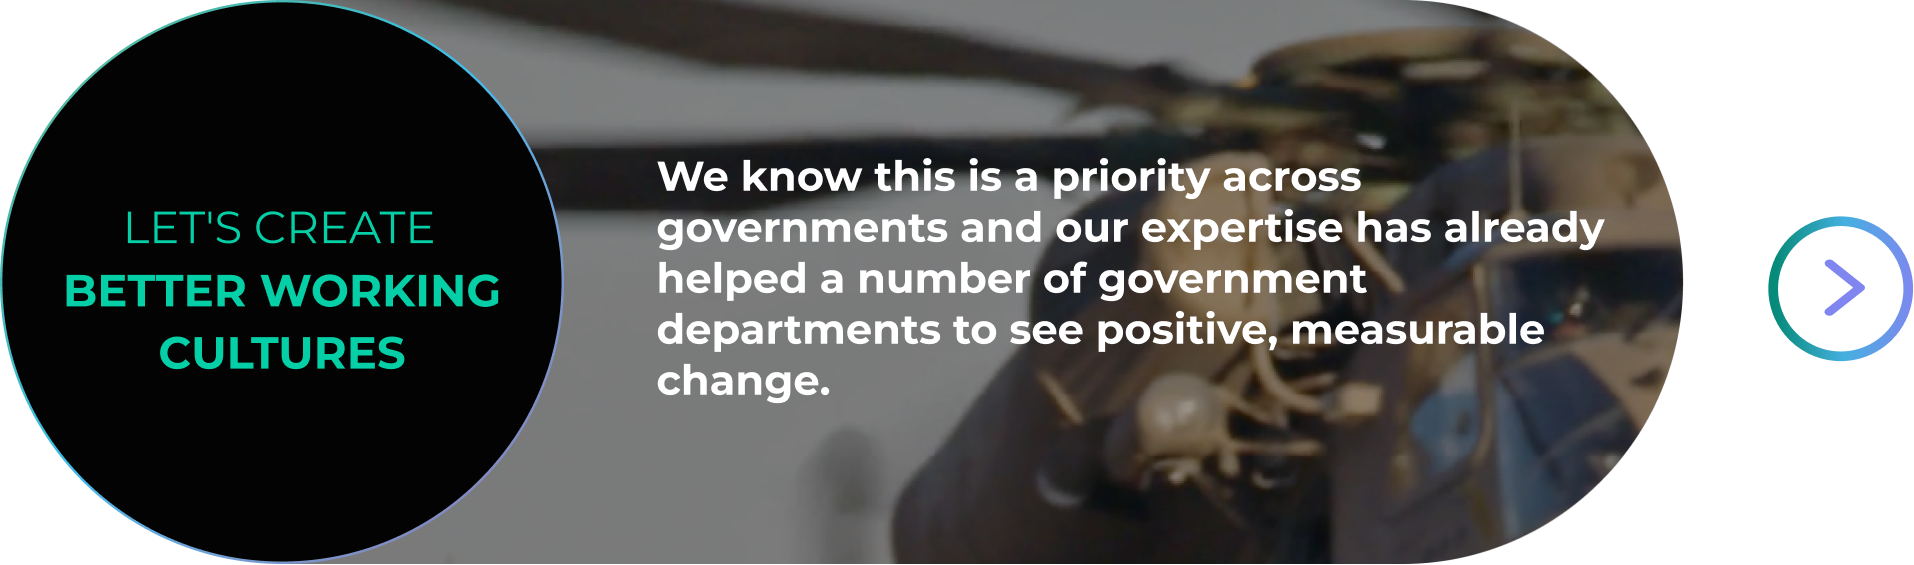
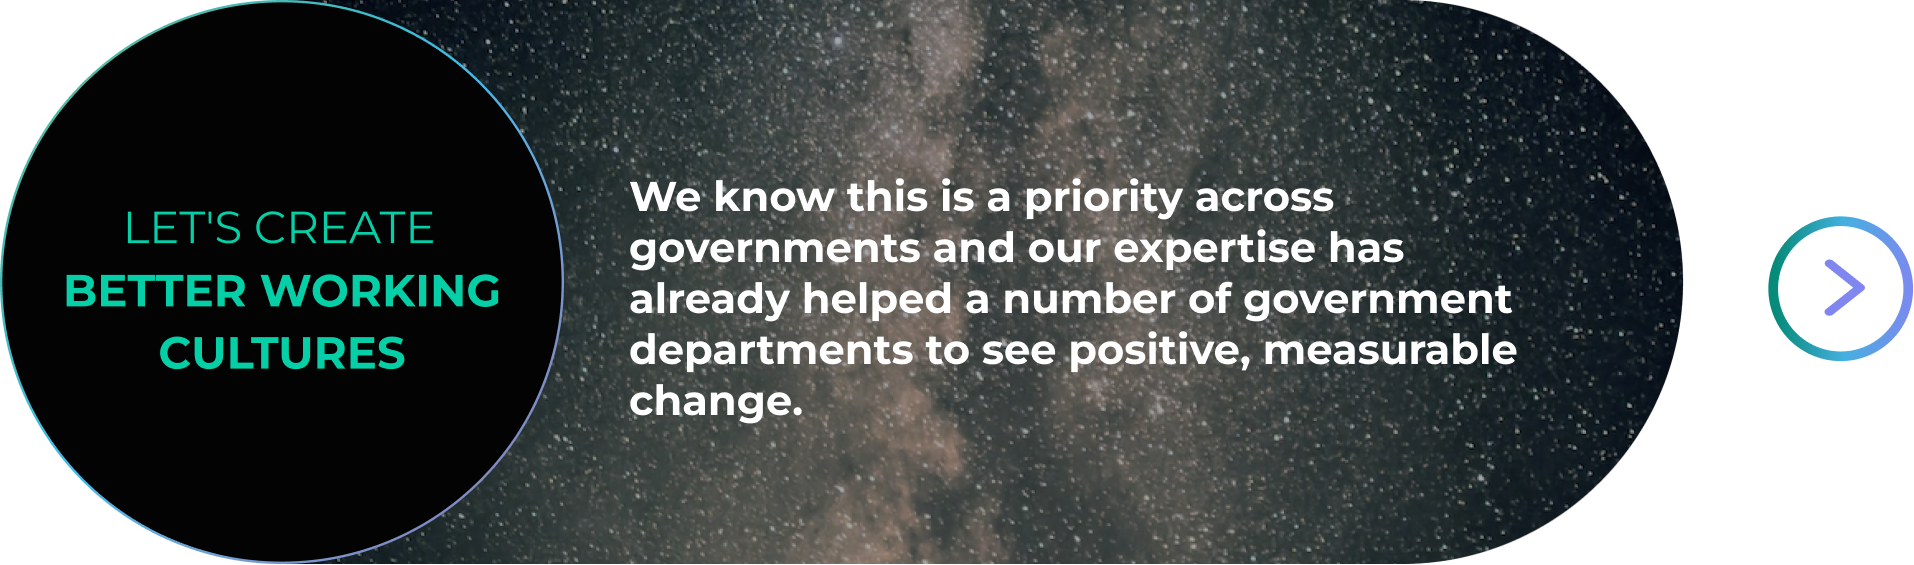
fix: images

diff --git a/src/pages/Four/Title.tsx b/src/pages/Four/Title.tsx
@@ -5,7 +5,7 @@ export default function Title({children}: {children: React.ReactNode}) {
         <div style={{
             backgroundImage: `url(${titleBg})`,
         }}
-        className="text-center uppercase bg-[100%,100%] bg-no-repeat bg-center text-white min-h-[4vh] max-h-[4vh] -mb-[2vw] grid place-items-center text-[1.4vw]">
+        className="text-center uppercase bg-[100%,100%] bg-no-repeat bg-center text-white min-h-[4vh] max-h-[4vh] -mb-[2vw] grid place-items-center text-[1.65vw]">
             {children}
         </div>
     )

diff --git a/src/pages/Four/Four.tsx b/src/pages/Four/Four.tsx
@@ -84,7 +84,7 @@ export default function Four() {
               <Title>{(fullTitles as any)[title as any]}</Title>
               <img className="w-full" src="./page4-text.svg" />
             </div>
-            <img className="w-[40vw]" src="./page4-profile.svg" />
+            <img className="w-[40vw]" src={`./${title}.png`} />
           </div>
           <Carousel items={items} />
           <div className="grid grid-cols-2 w-full px-[3vw] gap-[1vw] h-[3vh] place-items-center place-content-center w-[72%] mx-auto">

diff --git a/src/pages/Three/Three.tsx b/src/pages/Three/Three.tsx
@@ -10,10 +10,10 @@ import Overlay from "../../components/Overlay";
 import fade from "@/motion/fade";
 
 const sections = Object.entries({
-  collaborate_effectively: image1,
-  public_trust: image2,
-  right_people: image3,
-  working_cultures: image4,
+  collaborate_effectively: image3,
+  public_trust: image1,
+  right_people: image4,
+  working_cultures: image2,
 });
 
 export default function Three() {
